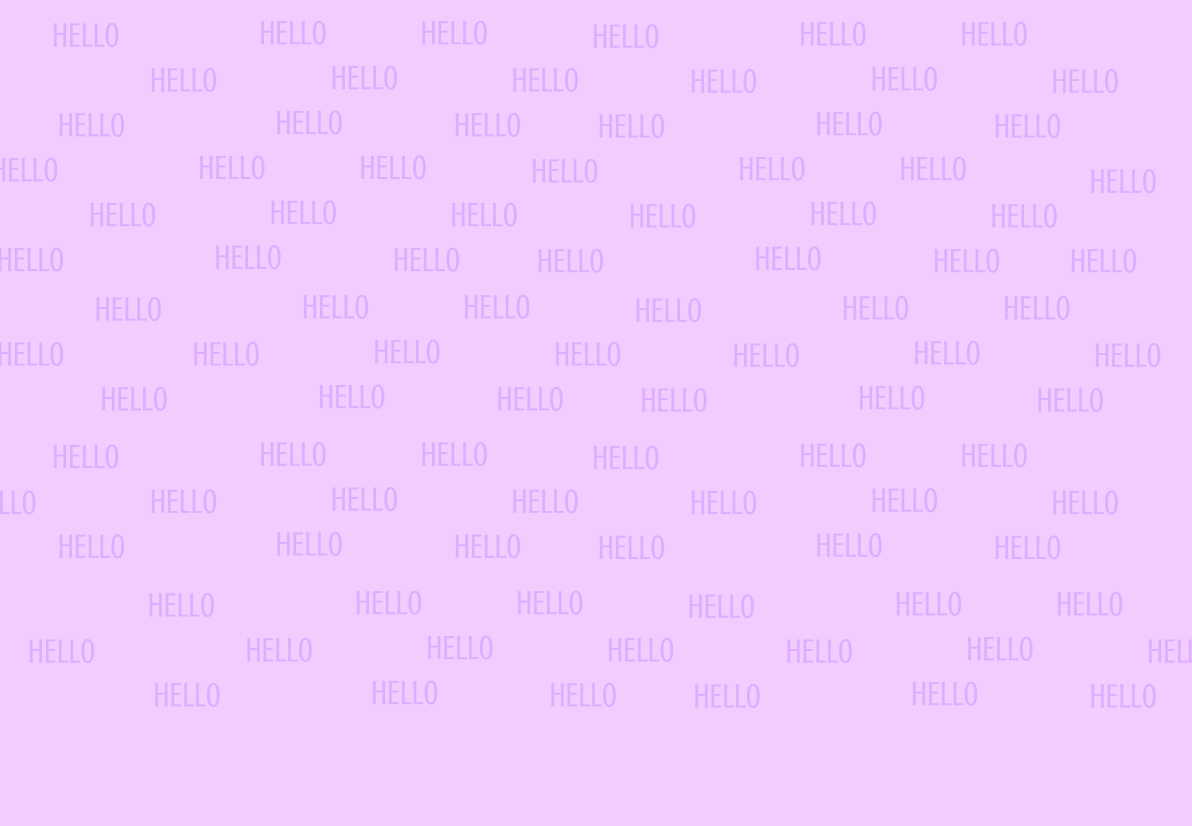
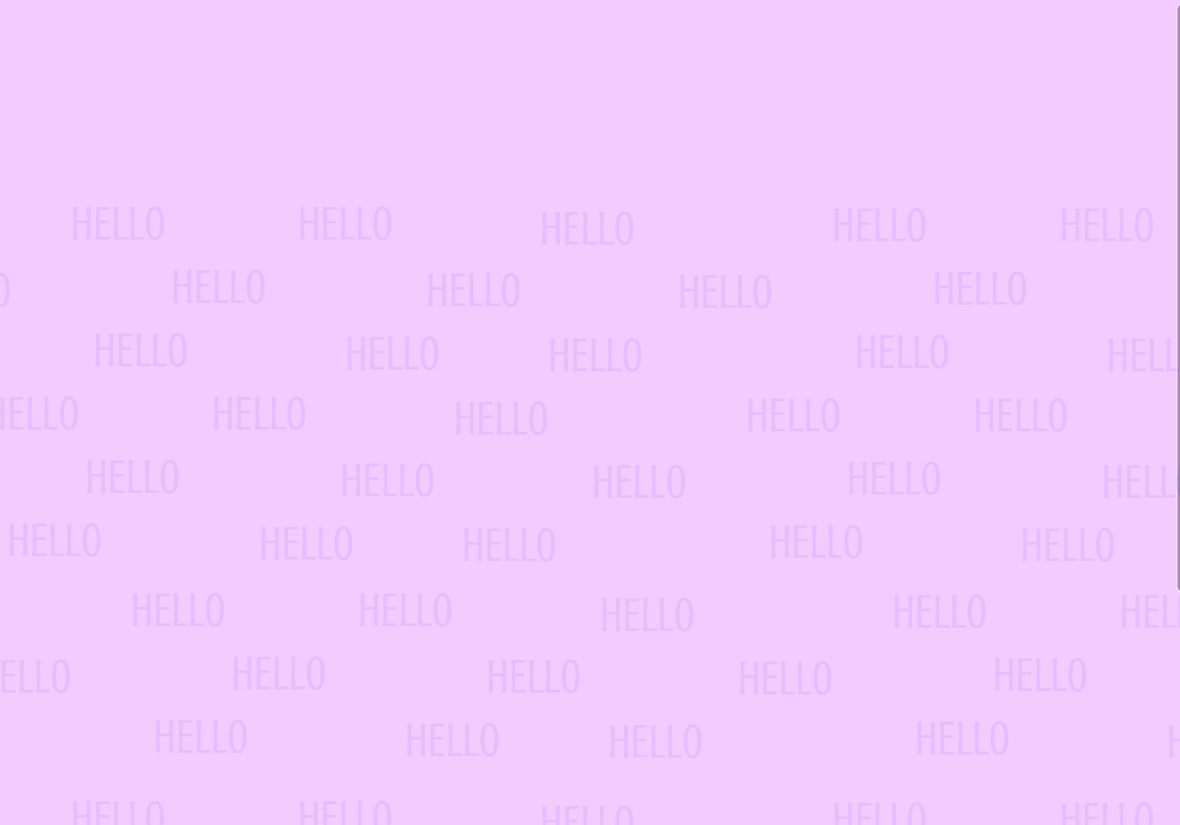
navbar added

diff --git a/src/components/Hero.js b/src/components/Hero.js
@@ -26,15 +26,27 @@ function Hero() {
     <>
       <div className='hero-container'>
         <div className="bg">
-          <img src="/hello_bg(opace).png" alt="bg-img" />
+          <img src="/hello_bg.png" alt="bg-img" />
         </div>
         <div className='content-wrapper'>
           <div className='content'>
-            <h3 className='s-head'>I'm Sahil <span className='wave' style={{transform: "rotate(4.42178deg)",}}>👋</span>!</h3>
-            <h1 className='m-head' style={wave}>A Freelance <br /> Web Developer.</h1>
+            <h3 className='s-head'>I'm <span className='wave' style={wave}>Sahil 👋</span>!</h3>
+            <h1 className='m-head'>A Freelance <br /> Web Developer.</h1>
           </div>
         </div>
-      </div>
+        <div className='links-wrap'>
+          <div className='links'>
+            <ul>
+              <li><a href=""><svg stroke="currentColor" fill="currentColor" stroke-width="0" viewBox="0 0 496 512" class="h-16 w-16 sm:h-16 sm:w-16 fill-current" height="4em" width="4em" xmlns="http://www.w3.org/2000/svg"><path d="M165.9 397.4c0 2-2.3 3.6-5.2 3.6-3.3.3-5.6-1.3-5.6-3.6 0-2 2.3-3.6 5.2-3.6 3-.3 5.6 1.3 5.6 3.6zm-31.1-4.5c-.7 2 1.3 4.3 4.3 4.9 2.6 1 5.6 0 6.2-2s-1.3-4.3-4.3-5.2c-2.6-.7-5.5.3-6.2 2.3zm44.2-1.7c-2.9.7-4.9 2.6-4.6 4.9.3 2 2.9 3.3 5.9 2.6 2.9-.7 4.9-2.6 4.6-4.6-.3-1.9-3-3.2-5.9-2.9zM244.8 8C106.1 8 0 113.3 0 252c0 110.9 69.8 205.8 169.5 239.2 12.8 2.3 17.3-5.6 17.3-12.1 0-6.2-.3-40.4-.3-61.4 0 0-70 15-84.7-29.8 0 0-11.4-29.1-27.8-36.6 0 0-22.9-15.7 1.6-15.4 0 0 24.9 2 38.6 25.8 21.9 38.6 58.6 27.5 72.9 20.9 2.3-16 8.8-27.1 16-33.7-55.9-6.2-112.3-14.3-112.3-110.5 0-27.5 7.6-41.3 23.6-58.9-2.6-6.5-11.1-33.3 2.6-67.9 20.9-6.5 69 27 69 27 20-5.6 41.5-8.5 62.8-8.5s42.8 2.9 62.8 8.5c0 0 48.1-33.6 69-27 13.7 34.7 5.2 61.4 2.6 67.9 16 17.7 25.8 31.5 25.8 58.9 0 96.5-58.9 104.2-114.8 110.5 9.2 7.9 17 22.9 17 46.4 0 33.7-.3 75.4-.3 83.6 0 6.5 4.6 14.4 17.3 12.1C428.2 457.8 496 362.9 496 252 496 113.3 383.5 8 244.8 8zM97.2 352.9c-1.3 1-1 3.3.7 5.2 1.6 1.6 3.9 2.3 5.2 1 1.3-1 1-3.3-.7-5.2-1.6-1.6-3.9-2.3-5.2-1zm-10.8-8.1c-.7 1.3.3 2.9 2.3 3.9 1.6 1 3.6.7 4.3-.7.7-1.3-.3-2.9-2.3-3.9-2-.6-3.6-.3-4.3.7zm32.4 35.6c-1.6 1.3-1 4.3 1.3 6.2 2.3 2.3 5.2 2.6 6.5 1 1.3-1.3.7-4.3-1.3-6.2-2.2-2.3-5.2-2.6-6.5-1zm-11.4-14.7c-1.6 1-1.6 3.6 0 5.9 1.6 2.3 4.3 3.3 5.6 2.3 1.6-1.3 1.6-3.9 0-6.2-1.4-2.3-4-3.3-5.6-2z"></path></svg></a></li>
+              <li><a href=""><svg stroke="currentColor" fill="currentColor" stroke-width="0" viewBox="0 0 512 512" class="h-16 w-16 sm:h-16 sm:w-16 fill-current" height="4em" width="4em" xmlns="http://www.w3.org/2000/svg"><path d="M459.37 151.716c.325 4.548.325 9.097.325 13.645 0 138.72-105.583 298.558-298.558 298.558-59.452 0-114.68-17.219-161.137-47.106 8.447.974 16.568 1.299 25.34 1.299 49.055 0 94.213-16.568 130.274-44.832-46.132-.975-84.792-31.188-98.112-72.772 6.498.974 12.995 1.624 19.818 1.624 9.421 0 18.843-1.3 27.614-3.573-48.081-9.747-84.143-51.98-84.143-102.985v-1.299c13.969 7.797 30.214 12.67 47.431 13.319-28.264-18.843-46.781-51.005-46.781-87.391 0-19.492 5.197-37.36 14.294-52.954 51.655 63.675 129.3 105.258 216.365 109.807-1.624-7.797-2.599-15.918-2.599-24.04 0-57.828 46.782-104.934 104.934-104.934 30.213 0 57.502 12.67 76.67 33.137 23.715-4.548 46.456-13.32 66.599-25.34-7.798 24.366-24.366 44.833-46.132 57.827 21.117-2.273 41.584-8.122 60.426-16.243-14.292 20.791-32.161 39.308-52.628 54.253z"></path></svg></a></li>
+              <li><a href=""><svg stroke="currentColor" fill="currentColor" stroke-width="0" viewBox="0 0 448 512" class="h-16 w-16 sm:h-16 sm:w-16 fill-current" height="4em" width="4em" xmlns="http://www.w3.org/2000/svg"><path d="M416 32H31.9C14.3 32 0 46.5 0 64.3v383.4C0 465.5 14.3 480 31.9 480H416c17.6 0 32-14.5 32-32.3V64.3c0-17.8-14.4-32.3-32-32.3zM135.4 416H69V202.2h66.5V416zm-33.2-243c-21.3 0-38.5-17.3-38.5-38.5S80.9 96 102.2 96c21.2 0 38.5 17.3 38.5 38.5 0 21.3-17.2 38.5-38.5 38.5zm282.1 243h-66.4V312c0-24.8-.5-56.7-34.5-56.7-34.6 0-39.9 27-39.9 54.9V416h-66.4V202.2h63.7v29.2h.9c8.9-16.8 30.6-34.5 62.9-34.5 67.2 0 79.7 44.3 79.7 101.9V416z"></path></svg></a></li>
+              <li><a href=""><svg xmlns="http://www.w3.org/2000/svg" fill="currentColor" width="4em" height="4em" viewBox="0 0 24 24"><path d="M12 2.163c3.204 0 3.584.012 4.85.07 3.252.148 4.771 1.691 4.919 4.919.058 1.265.069 1.645.069 4.849 0 3.205-.012 3.584-.069 4.849-.149 3.225-1.664 4.771-4.919 4.919-1.266.058-1.644.07-4.85.07-3.204 0-3.584-.012-4.849-.07-3.26-.149-4.771-1.699-4.919-4.92-.058-1.265-.07-1.644-.07-4.849 0-3.204.013-3.583.07-4.849.149-3.227 1.664-4.771 4.919-4.919 1.266-.057 1.645-.069 4.849-.069zm0-2.163c-3.259 0-3.667.014-4.947.072-4.358.2-6.78 2.618-6.98 6.98-.059 1.281-.073 1.689-.073 4.948 0 3.259.014 3.668.072 4.948.2 4.358 2.618 6.78 6.98 6.98 1.281.058 1.689.072 4.948.072 3.259 0 3.668-.014 4.948-.072 4.354-.2 6.782-2.618 6.979-6.98.059-1.28.073-1.689.073-4.948 0-3.259-.014-3.667-.072-4.947-.196-4.354-2.617-6.78-6.979-6.98-1.281-.059-1.69-.073-4.949-.073zm0 5.838c-3.403 0-6.162 2.759-6.162 6.162s2.759 6.163 6.162 6.163 6.162-2.759 6.162-6.163c0-3.403-2.759-6.162-6.162-6.162zm0 10.162c-2.209 0-4-1.79-4-4 0-2.209 1.791-4 4-4s4 1.791 4 4c0 2.21-1.791 4-4 4zm6.406-11.845c-.796 0-1.441.645-1.441 1.44s.645 1.44 1.441 1.44c.795 0 1.439-.645 1.439-1.44s-.644-1.44-1.439-1.44z"/></svg></a></li>
+            </ul>
+          </div>
+          </div>
+        
+        </div>
+
     </>
   )
 }

diff --git a/src/components/Hero.css b/src/components/Hero.css
@@ -1,3 +1,7 @@
+body {
+    height: 100vh;
+    overflow: hidden;
+}
 .container {
     position: relative;
 }
@@ -5,9 +9,10 @@
 img {
     position: absolute;
     left: 0%;
-    top: -43%;
+    top: -12%;
     object-fit: cover;
     min-width: 100%;
+    opacity: 0.85;
 }
 
 .content-wrapper {
@@ -21,7 +26,7 @@ img {
 }
 .content{
     position: absolute;
-    top: 30vh;
+    top: 25vh;
     line-height: 0.8;
     /* left: 0; */
 }
@@ -31,10 +36,14 @@ img {
     font-size: 40px;
     font-weight: 800;
 }
+
+.s-head span{
+    color: #27aac8;
+}
 .m-head {
     color: #ffffff;
     font-family: 'Montserrat';
-    font-size: 90px;
+    font-size: 80px;
     font-weight: 600;
     line-height: 1;
 }
@@ -42,7 +51,22 @@ img {
     transform: rotate(0) !important;
 }
 
-/* .s-head .wave{
-    transition: ease-in-out;
-    transform: 0.75s;
-} */
+.s-head .wave{
+    transform: rotate(-5.42178deg);
+}
+
+.links-wrap {
+    position: absolute;
+    bottom: 15%;
+    right: 5%;
+}
+
+.links-wrap ul {
+    list-style-type: none;
+}
+
+.links-wrap li {
+    /* width: 200; */
+    margin: 40px auto;
+}
+

diff --git a/src/components/Navbar.css b/src/components/Navbar.css
@@ -1,0 +1,43 @@
+.nav-wrap {
+    position: absolute;
+    list-style-type: none;
+    right: 2%;
+    top: 2%;
+    z-index: 1;
+   /* left: 31vw; */
+    width: 100%;
+    display: flex;
+    text-align: center;
+    justify-content: center;
+    align-items: center;
+    /* background-color: #ffffff; */
+}
+
+.nav-wrap nav {
+    display: flex;
+}
+
+.nav-wrap li{
+    margin-right: 5%;
+    color: #383838;
+    font-family: 'open sans';
+    font-size: 30px;
+    padding: 5px;
+    /* margin: 5px; */
+    margin-bottom: 10px;
+    border-bottom: transparent 2px solid;
+}
+
+.nav-wrap li:hover {
+    /* border-bottom: #27aac8 2px solid; */
+}
+
+.nav-wrap a {
+    text-decoration: none;
+    color: #555454;
+}
+
+.nav-wrap a:hover {
+    color: #000;
+    border-bottom: #551a8b 2px solid;
+}

diff --git a/src/components/Navbar.js b/src/components/Navbar.js
@@ -1,0 +1,17 @@
+import React from 'react'
+import './Navbar.css'
+
+function Navbar() {
+  return (
+    <div className='nav-wrap'>
+          <nav>
+            <li><a href="">Home</a></li>
+            <li><a href="">Projects</a></li>
+            <li><a href="">About</a></li>
+            <li><a href="">Contact</a></li>
+          </nav>
+    </div>
+  )
+}
+
+export default Navbar

diff --git a/src/App.js b/src/App.js
@@ -1,10 +1,12 @@
 import logo from './logo.svg';
 import './App.css';
 import Hero from './components/Hero'
+import Navbar from './components/Navbar';
 
 function App() {
   return (
     <div className="App">
+      <Navbar/>
       <Hero/>
     </div>
   );
